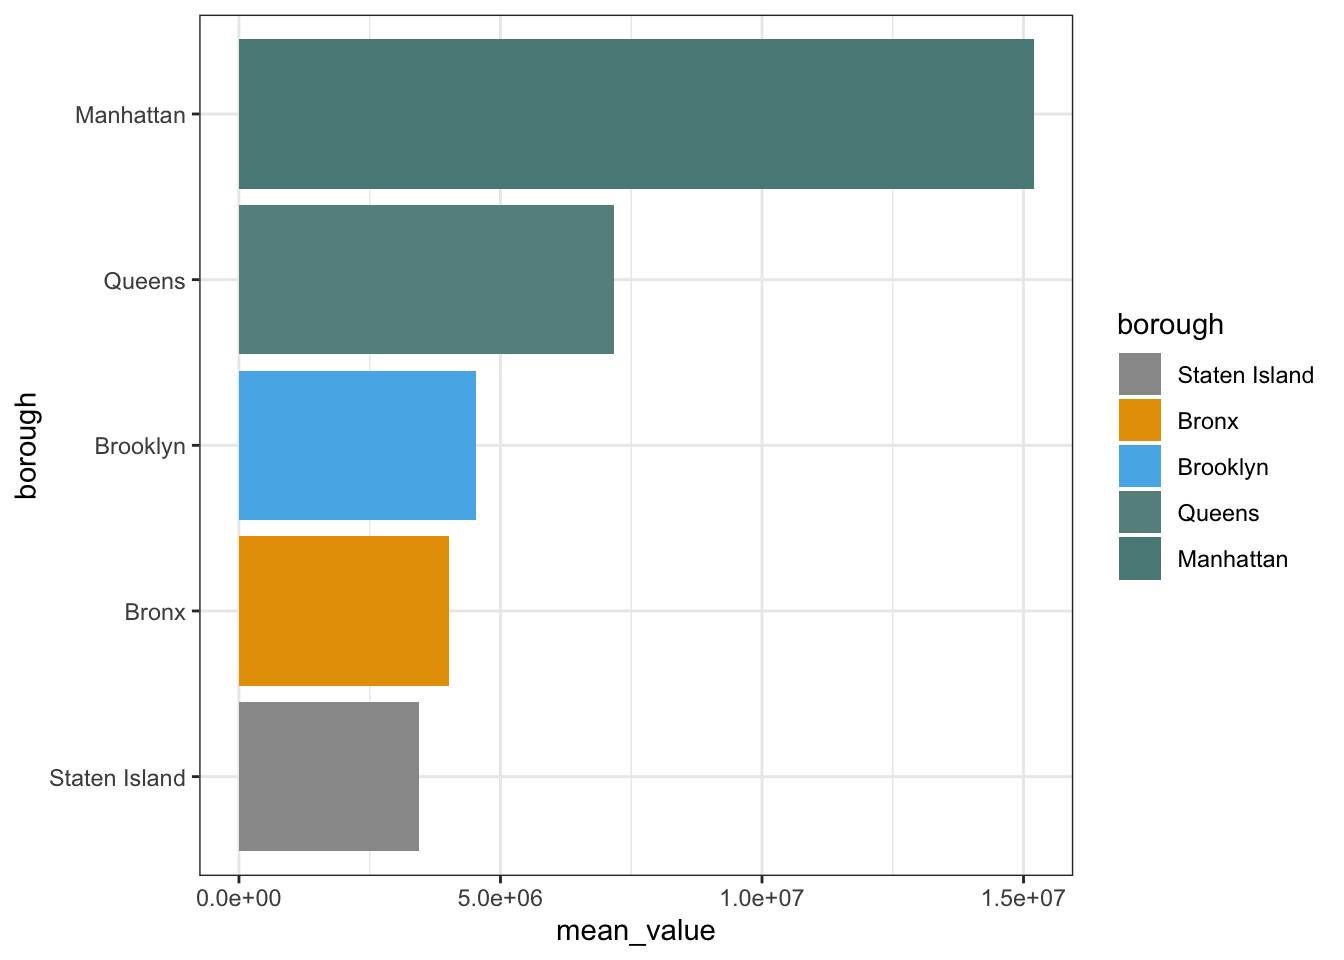
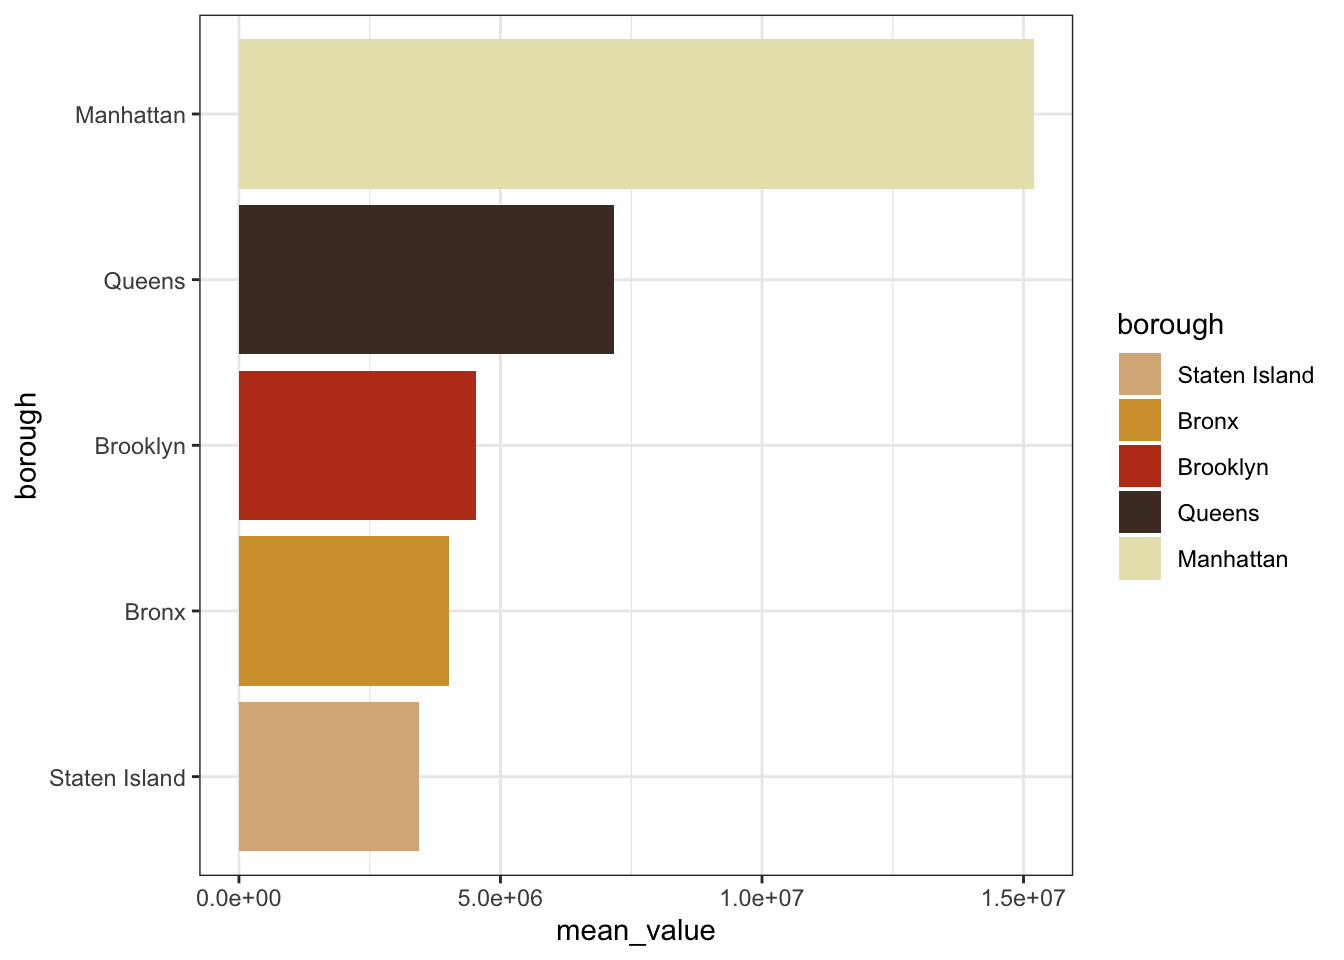
edit plots

Changed region(s): [[0.1562, 0.0312, 0.7812, 0.9062], [0.8125, 0.3438, 0.875, 0.625]]

diff --git a/Exploratory_analysis_1.html b/Exploratory_analysis_1.html
@@ -565,7 +565,7 @@ plot_borough</code></pre>
   mutate(borough = fct_reorder(borough,mean_value)) %&gt;% 
   ggplot(aes(x = borough, y = mean_value, fill = borough))+ 
   geom_bar(stat = &#39;identity&#39;)+
-  scale_fill_manual(values=c(&quot;#999999&quot;, &quot;#E69F00&quot;, &quot;#56B4E9&quot;, &quot;#678F8D&quot;, &quot;#598987&quot;, &quot;#999999&quot;))+
+  scale_fill_manual(values=c(&quot;#D9B489&quot;, &quot;#D49F3A&quot;, &quot;#BC3D1C&quot;, &quot;#4C372D&quot;, &quot;#E8E3B9&quot;))+
   coord_flip()+
 
   theme_bw()
